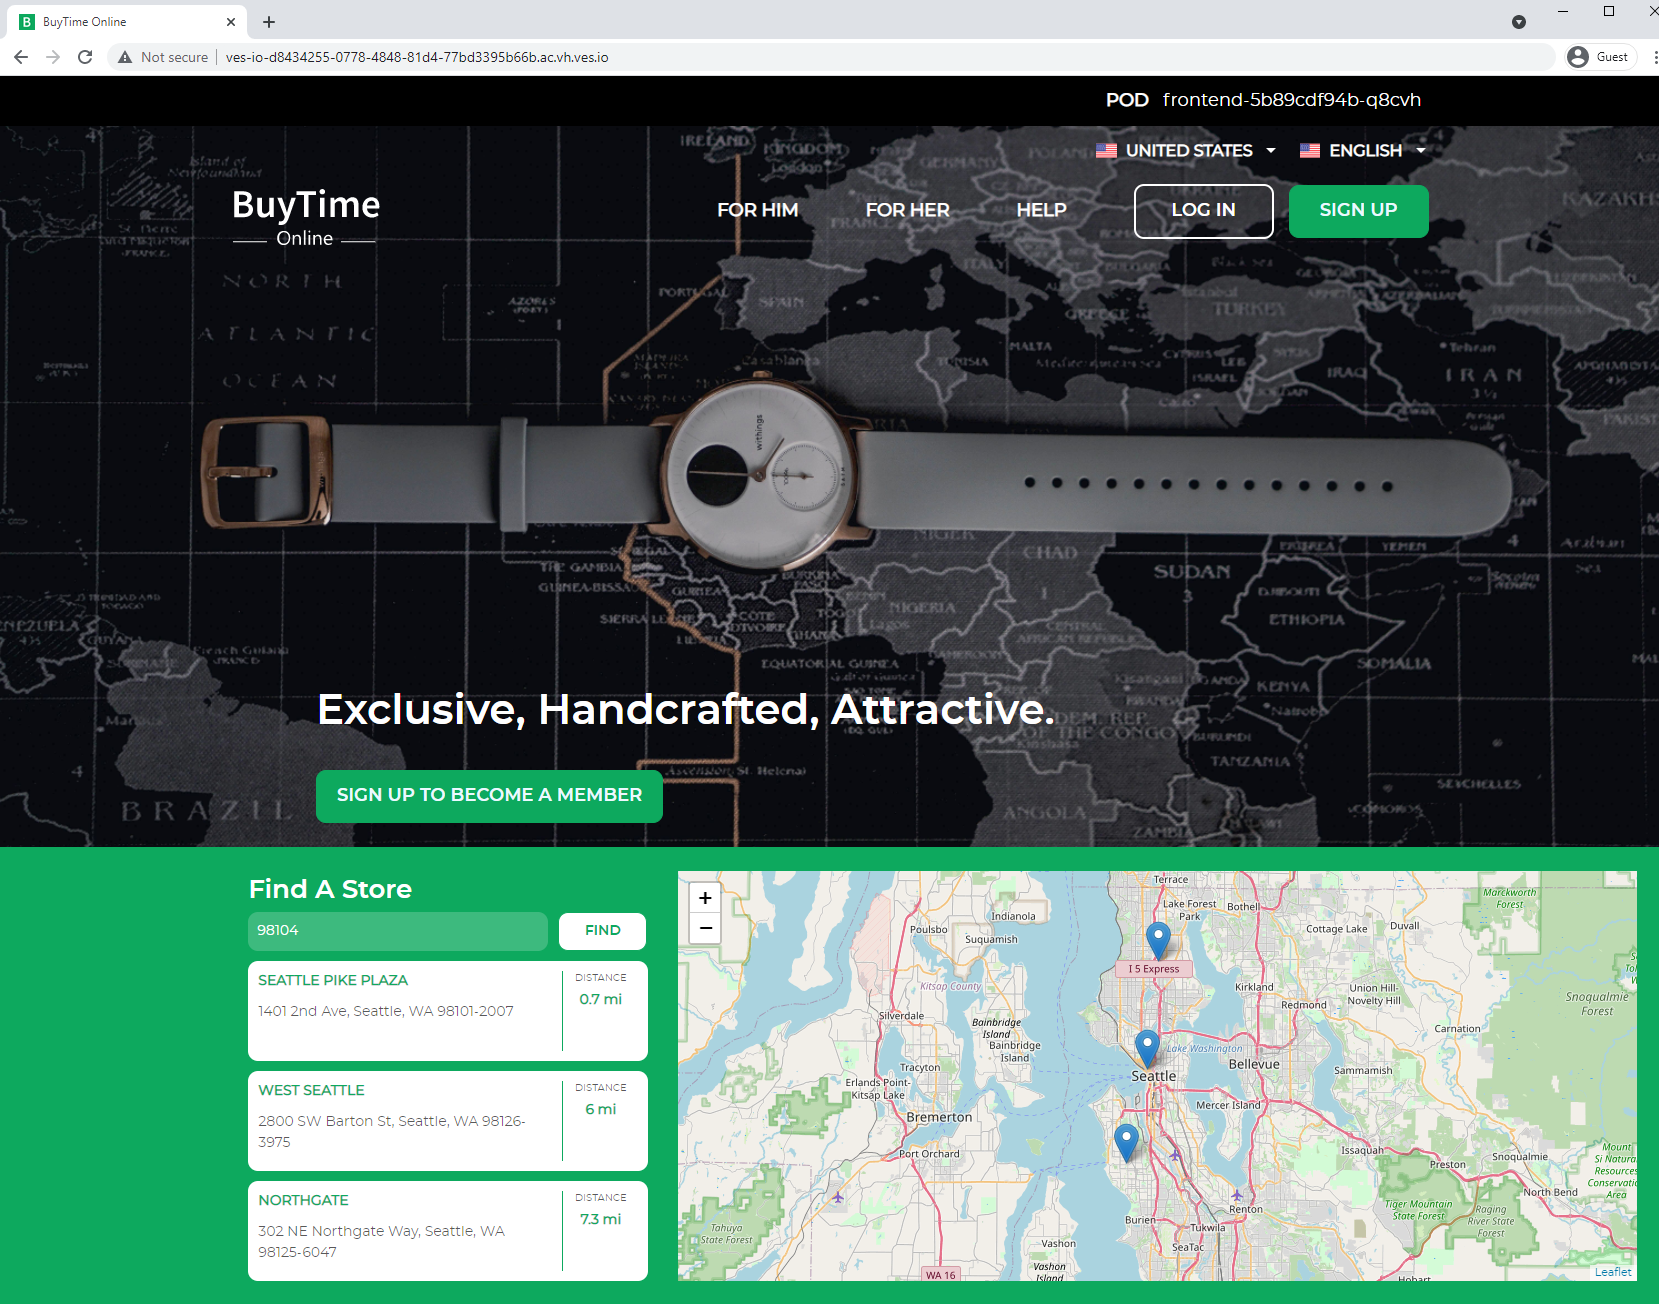
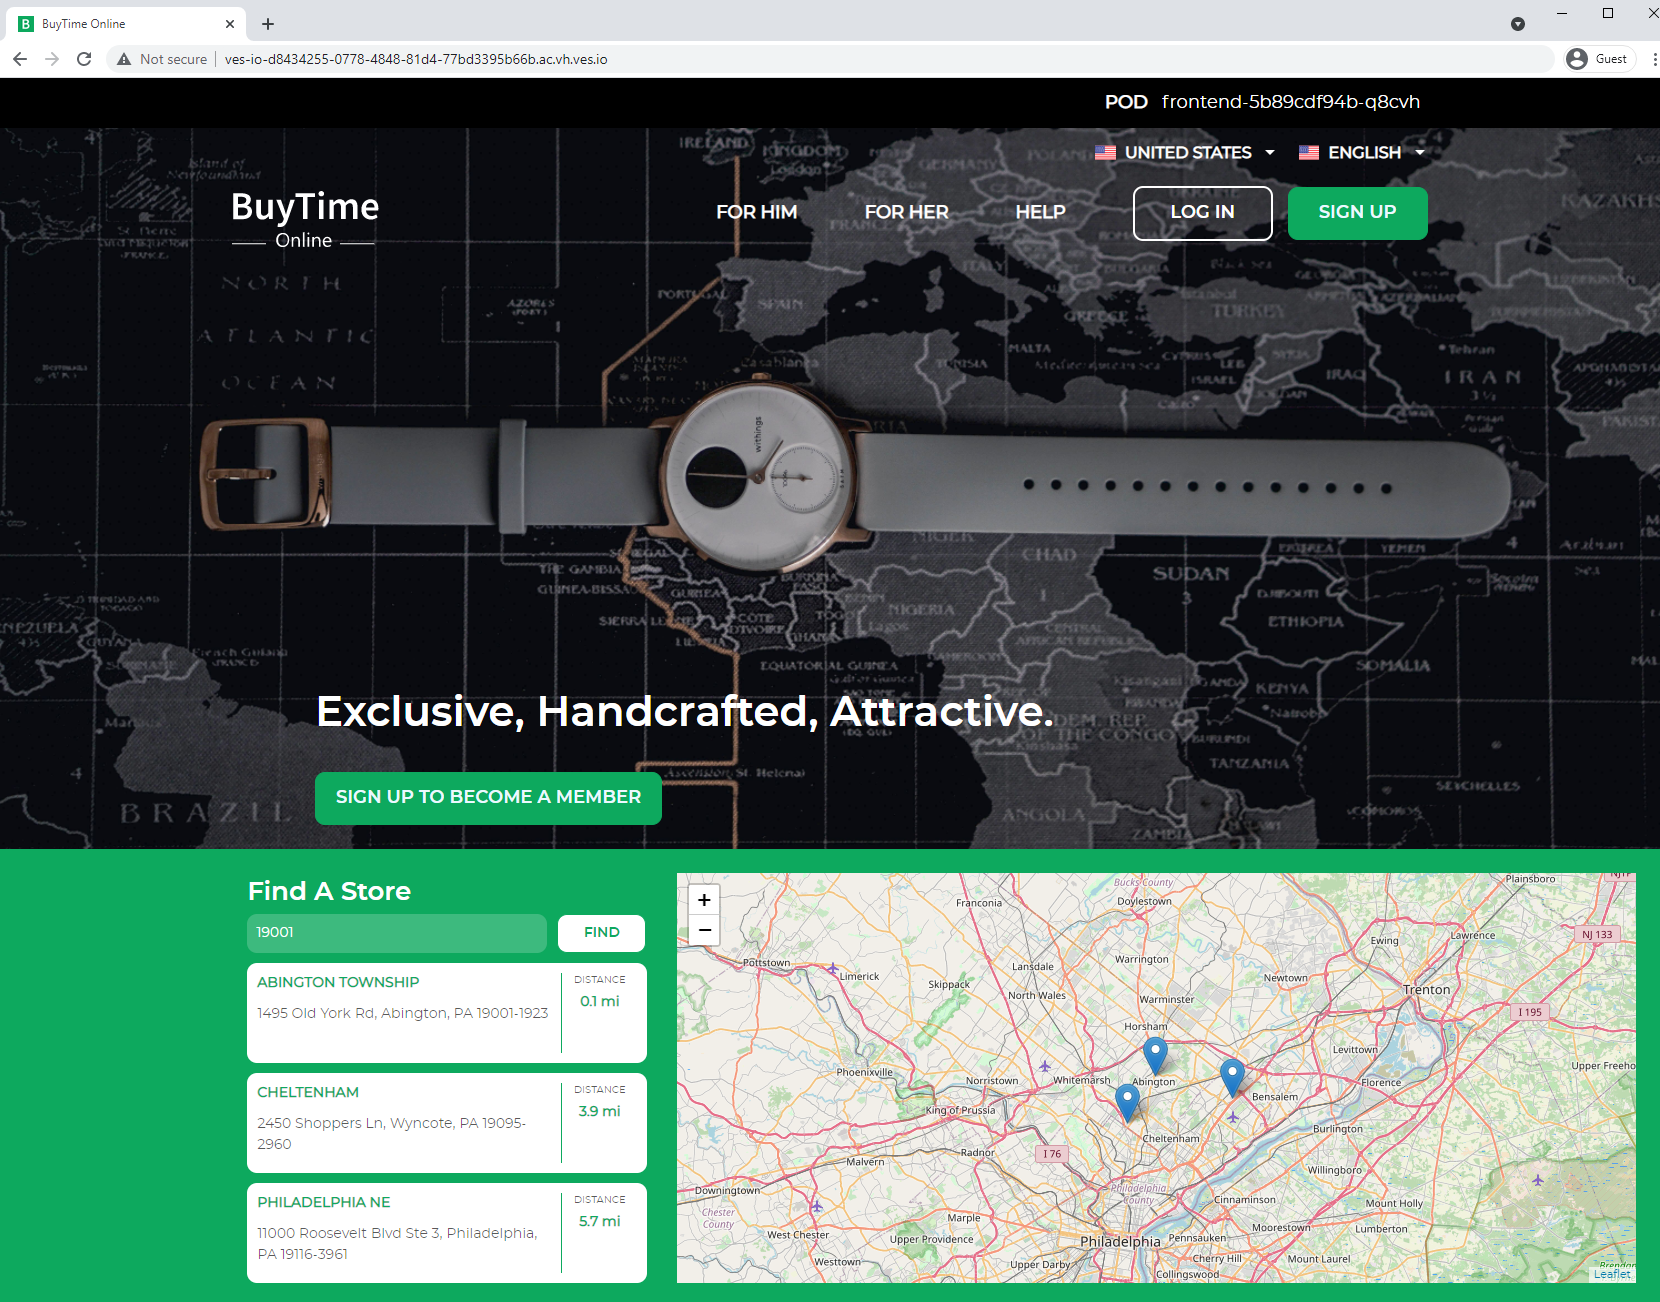
small improvements

diff --git a/README.rst b/README.rst
@@ -49,7 +49,7 @@ Sign in the AWS Management Console and follow a few steps below to create IAM po
 
 .. figure:: _figures/aws_cli_config_1_4.png
 
-`1.5` On the **Review policy** page, type a **Name** (let's use **VolterraGuidePolicy** for this guide). Description field is optional, so let's skip it. In the **Summary** section, you can see the permissions that are granted by your policy. Click **Create policy** when you are ready to save the policy.
+`1.5` On the **Review policy** page, type a **Name** (let's use **DemoEKSClusterPolicy** for this guide). Description field is optional, so let's skip it. In the **Summary** section, you can see the permissions that are granted by your policy. Click **Create policy** when you are ready to save the policy.
 
 .. figure:: _figures/aws_cli_config_1_5.png
 
@@ -65,7 +65,7 @@ Sign in the AWS Management Console and follow a few steps below to create IAM po
 
 .. figure:: _figures/aws_cli_config_4.png
 
-`1.9` There are three permission options available, but for this flow let's select **Attach existing policies directly**. This will show a list of the AWS managed and customer managed policies in your account. Tick **VolterraGuidePolicy** to apply to the new user. Click **Next: Tags** to move on.
+`1.9` There are three permission options available, but for this flow let's select **Attach existing policies directly**. This will show a list of the AWS managed and customer managed policies in your account. Tick **DemoEKSClusterPolicy** to apply to the new user. Click **Next: Tags** to move on.
 
 .. figure:: _figures/aws_cli_config_5.png
 
@@ -99,15 +99,21 @@ Note that you will not have access to the secret key again after this step.
 
 .. figure:: _figures/eks_setup_3.png
 
-`1.17` After the terraform plan has been executed, let's configure kubectl so that we could connect to an Amazon EKS cluster. Run the following command: **aws eks update-kubeconfig --region eu-west-2 --name f5guide-eks**.
+`1.17` After the terraform plan has been executed, let's configure kubectl so that we could connect to an Amazon EKS cluster. Run the following command: **aws eks update-kubeconfig --region eu-west-2 --name eks-cluster**.
 
 .. figure:: _figures/eks_setup_4.png
 
-`1.18` One step left - deploying the BuyTime Online resources to AWS EKS K8s cluster. Run the following command: **kubectl apply -f eks-deployment.yaml**.
+`1.18` One step left - deploying the BuyTime Online resources to AWS EKS K8s cluster. Go to the **k8s-deployments** directory and run the following command: **kubectl apply -f eks-deployment.yaml**.
 
 .. figure:: _figures/eks_setup_5.png
 
-Let's now see the what the BuyTime Online deployment looks like before we begin connecting the 
+`1.19` Let's now see the what the BuyTime Online deployment looks like on the EKS cluster. For that we need to get a LoadBalancer endpoint name. Run the **kubectl get services** command and copy buytime-external FQDN.
+
+.. figure:: _figures/eks_setup_6.png
+
+`1.20` Open FQDN in the browser. It may take some time to create resources.
+
+.. figure:: _figures/eks_setup_7.png
 
 A. Connect K8s Clusters with Volterra
 ####################################### 
@@ -314,7 +320,7 @@ We will use Volterra HTTP Load Balancer as a Reverse Proxy to route traffic to r
 
 .. figure:: _figures/httplb_1.png
 
-`b)` First, enter the load balancer name. Then provide a domain name for our workload: a domain can be delegated to Volterra, so that Domain Name Service (DNS) entries can be created quickly in order to deploy and route traffic to our workload within seconds. Let’s use **buytime.demo.f5guide** for this flow. Finally, move on to creating an origin pool that will be used for this load balancer by clicking **Configure**.
+`b)` First, enter the load balancer name. Then provide a domain name for our workload: a domain can be delegated to Volterra, so that Domain Name Service (DNS) entries can be created quickly in order to deploy and route traffic to our workload within seconds. Let’s use **buytime.example.com** for this flow. Finally, move on to creating an origin pool that will be used for this load balancer by clicking **Configure**.
 
 .. figure:: _figures/httplb_2.png
 
@@ -416,6 +422,8 @@ Open any browser and paste the copied CNAME. You will see BuyTime front-end with
 Let's give it a shot, by trying some US zip codes: 19001 and 98007
 
 .. figure:: _figures/httplb_22.png
+
+.. figure:: _figures/httplb_23.png
 
 Congratulations, you used Volterra to connect two K8s clusters, deploy a distributed app service to the customer edge, and securely connect those deployments back to the app backend on AWS! 
 
